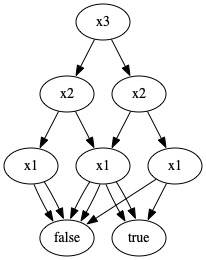
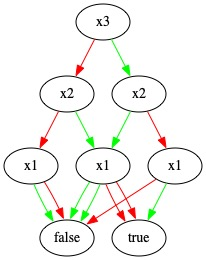
.dot Arrow Color

diff --git a/src/decision_tree/treeClasses.cpp b/src/decision_tree/treeClasses.cpp
@@ -17,8 +17,8 @@ const string AbstractNode::toDotString() const
  */
 const string InternalNode::toDotString() const
 {
-    string leftConnection = this->stringOfAddr() + " -> " + this->_left->stringOfAddr() + "\n";
-    string rightConnection = this->stringOfAddr() + " -> " + this->_right->stringOfAddr() + "\n";
+    string leftConnection = this->stringOfAddr() + " -> " + this->_left->stringOfAddr() + " [color=\"green\"]\n";
+    string rightConnection = this->stringOfAddr() + " -> " + this->_right->stringOfAddr() + " [color=\"red\"]\n";
     return AbstractNode::toDotString() + this->_left->toDotString() + this->_right->toDotString()
             + leftConnection + rightConnection;
 }

diff --git a/src/decision_tree/tree.cpp b/src/decision_tree/tree.cpp
@@ -95,10 +95,6 @@ AbstractNode *BinaryDecisionTree::_buildTree_aux(const vector<bool> &truthTable)
     return node;
 }
 
-/**
- * It compresses the tree by replacing all the nodes that have the same left and right child by a
- * single node
- */
 void BinaryDecisionTree::BasicCompression()
 {
     this->_root = this->_root->basicCompression(&_dico);
